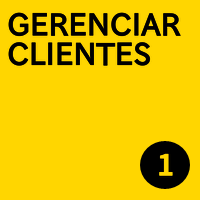
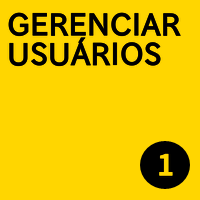
Imagens dos botões

Changed region(s): [[0.03, 0.18, 0.81, 0.33]]

diff --git a/src/screens/HomeScreen.tsx b/src/screens/HomeScreen.tsx
@@ -1,5 +1,11 @@
 import { View, Text, StyleSheet, TouchableOpacity, ImageBackground } from "react-native";
 import item1 from './../../assets/Images/OP1.png'
+import item2 from './../../assets/Images/OP2.png'
+import item3 from './../../assets/Images/OP3.png'
+import item4 from './../../assets/Images/OP4.png'
+import item5 from './../../assets/Images/OP5.png'
+import item6 from './../../assets/Images/OP6.png'
+import item7 from './../../assets/Images/OP7.png'
 
 export default function HomeScreen({ navigation }: { navigation: any }) {
   return (
@@ -20,39 +26,110 @@ export default function HomeScreen({ navigation }: { navigation: any }) {
           <Text style={styles.servicesText}>Serviços: </Text>
         </View>
 
+        {/* ITEM 1 - GERENCIAR USUÁRIOS */}
         <View style={styles.spaceItem}>
           <TouchableOpacity
             style={styles.spaceInternItem}
-            onPress={() => navigation.navigate('Login')}
+            onPress={() => navigation.navigate('Gerenciar Users')}
           >
             <ImageBackground
               source={item1}
               style={styles.imageItem}
-              imageStyle={styles.imageItem} 
+              imageStyle={styles.imageItem}
             />
           </TouchableOpacity>
         </View>
+
+        {/* ITEM 2 -  */}
         <View style={styles.spaceItem}>
+          <TouchableOpacity
+            style={styles.spaceInternItem}
+            onPress={() => navigation.navigate('Cadastro Users')}
+          >
+            <ImageBackground
+              source={item2}
+              style={styles.imageItem}
+              imageStyle={styles.imageItem}
+            />
+          </TouchableOpacity>
 
         </View>
+
+        {/* ITEM 3 - */}
         <View style={styles.spaceItem}>
+          <TouchableOpacity
+            style={styles.spaceInternItem}
+            onPress={() => navigation.navigate('Cadastro Users')}
+          >
+            <ImageBackground
+              source={item3}
+              style={styles.imageItem}
+              imageStyle={styles.imageItem}
+            />
+          </TouchableOpacity>
 
         </View>
+
+        {/* ITEM 4 - */}
         <View style={styles.spaceItem}>
+          <TouchableOpacity
+            style={styles.spaceInternItem}
+            onPress={() => navigation.navigate('Cadastro Users')}
+          >
+            <ImageBackground
+              source={item4}
+              style={styles.imageItem}
+              imageStyle={styles.imageItem}
+            />
+          </TouchableOpacity>
 
         </View>
+
+        {/* ITEM 5 - */}
         <View style={styles.spaceItem}>
+          <TouchableOpacity
+            style={styles.spaceInternItem}
+            onPress={() => navigation.navigate('Cadastro Users')}
+          >
+            <ImageBackground
+              source={item5}
+              style={styles.imageItem}
+              imageStyle={styles.imageItem}
+            />
+          </TouchableOpacity>
 
         </View>
+
+        {/* ITEM 6 - */}
         <View style={styles.spaceItem}>
+          <TouchableOpacity
+            style={styles.spaceInternItem}
+            onPress={() => navigation.navigate('Cadastro Users')}
+          >
+            <ImageBackground
+              source={item6}
+              style={styles.imageItem}
+              imageStyle={styles.imageItem}
+            />
+          </TouchableOpacity>
 
         </View>
+
+        {/* ITEM 7 - */}
         <View style={styles.spaceItem}>
+          <TouchableOpacity
+            style={styles.spaceInternItem}
+            onPress={() => navigation.navigate('Cadastro Users')}
+          >
+            <ImageBackground
+              source={item7}
+              style={styles.imageItem}
+              imageStyle={styles.imageItem}
+            />
+          </TouchableOpacity>
 
         </View>
-        <View style={styles.spaceItem}>
 
-        </View>
       </View>
 
 

diff --git a/src/screens/GerenciarUsuarios.tsx b/src/screens/GerenciarUsuarios.tsx
@@ -1,44 +1,0 @@
-import { View, Text, StyleSheet, Pressable } from "react-native";
-import { COLORS } from "../extra/colors";
-
-export default function GerenciarUsuarios() {
-  return (
-    <View style={styles.container}>
-
-          <View style={styles.spaceAddSquare}>
-            <Pressable
-              onPress={() => console.log('Botão clicado!')}
-              style={styles.spaceAddButton}
-            >
-              <Text style={styles.addButton}>Adicionar Cliente</Text>
-            </Pressable>
-          </View>
-
-    </View>
-  )
-}
-
-const styles = StyleSheet.create({
-  container: {
-    flex: 1,
-    backgroundColor: COLORS.azulPrimal,
-    justifyContent: 'center',
-    alignItems: 'center',
-  },
-
-  spaceAddSquare:{
-    borderWidth: 1,
-    width: '80%',
-    backgroundColor:'#f1bc0e',
-    padding: 20,
-  },
-
-  spaceAddButton: {
-    borderWidth: 1,
-    width: '100%'
-  },
-
-  addButton: {
-    color: '#000000'
-  }
-})

diff --git a/App.tsx b/App.tsx
@@ -1,9 +1,6 @@
-import { View, Text, StyleSheet } from "react-native";
-import GalleryScreen from "./src/screens/GalleryScreen";
-import HomeScreen from "./src/screens/HomeScreen";
-import LoginScreen from "./src/screens/LoginScreen";
-import AddClientes from "./src/screens/GerenciarUsuarios";
-import { NavigationContainer } from '@react-navigation/native'
+import HomeScreen from "./src/screens/HomeScreen"; // TELA 0
+import LoginScreen from "./src/screens/LoginScreen"; // TELA 01
+import { NavigationContainer } from '@react-navigation/native' 
 import { createNativeStackNavigator } from '@react-navigation/native-stack'
 
 const Stack = createNativeStackNavigator();
@@ -13,12 +10,12 @@ export default function App() {
     <NavigationContainer>
       <Stack.Navigator initialRouteName="Home">
         <Stack.Screen
-          name="Login"
-          component={LoginScreen}
-        />
-        <Stack.Screen
           name="Home"
           component={HomeScreen}
+        />
+        <Stack.Screen
+          name="Login"
+          component={LoginScreen}
         />
       </Stack.Navigator>
     </NavigationContainer>

diff --git a/src/extra/colors.ts b/src/extra/colors.ts
@@ -10,9 +10,17 @@ export const COLORS = {
     laranjaCoral: '#FF8243', // Botões de alerta, notificações importantes, selos de desconto ou elementos que exigem atenção imediata do usuário.
     douradoFechado: '#D4AF37', // Detalhes premium, bordas finas de destaque, ícones de "favorito" ou áreas de planos VIP/assinaturas.
     geloAzulado: '#E6F8FD', // Fundo de campos de texto desabilitados, divisores de seção discretos ou estados de "hover" (passar o mouse).
+    
+    //BOTÕES
+    amareloQueimado: '#FFD600',
+    rosaChoque: '#FF2A85',
+    tamgerina:'#FF5E00',
+    verdeEsmeralda: '#00E676',
+    roxoEletrico: '#6200EE',
+    azulRoyal: '#0046FF',
+    ciano: '#00F5D4',
 
     // CORES DESTAQUE
-    laranjaQueimado: '#E05300',
     roxoProfundo: '#5B39A0',
     cinzaQuente: '#787878',
 };